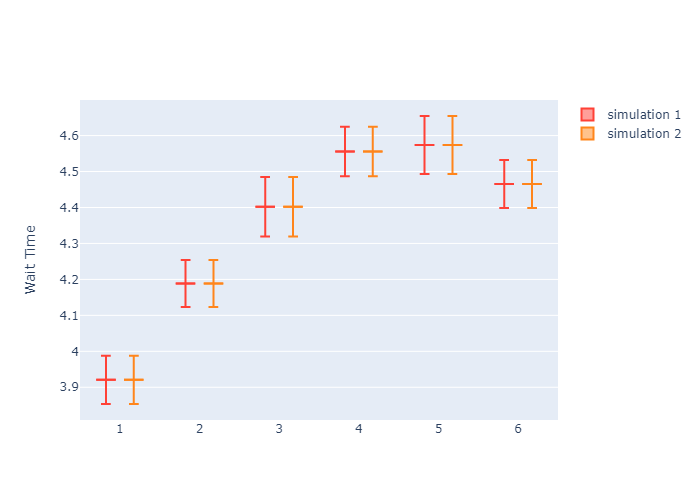
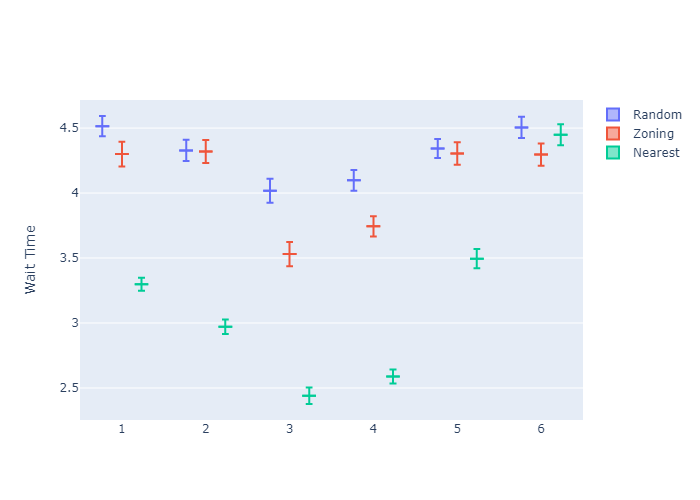
Plots for comparison

diff --git a/analysis/homogeneous/analysis.py b/analysis/homogeneous/analysis.py
@@ -197,42 +197,31 @@ def plt_graph(policy_label, data, graph_name, y_lim=(None, None)):
     img_path = "Results/{}.png".format(graph_name)
     fig.savefig(img_path)
 
-def  plt_comparison(data):
+def  plt_comparison(result, controllers):
 
-    wait_t = data.loc[:, 'steady state average'].to_list()
-    wait_t = [[v] for v in wait_t]
-    x = data.loc[:, 'floor' ].to_list()
+
     fig = go.Figure()
 
-    fig.add_trace(go.Box(y=wait_t, x=x, boxpoints=False, name = "simulation 1", marker_color='#FF4136')) # color="simulation_type"))
 
-    
-    fig.update_traces(
-                    # x = x,
-                    q1 = data.loc[:,'steady state average'].to_list(), 
-                    q3 = data.loc[:,'steady state average'].to_list(), 
-                    median = data.loc[:,'steady state average'].to_list(), 
-                    sd = [0]*6,
-                    lowerfence=data.loc[:, 'lower interval'].to_list(),
-                    upperfence=data.loc[:, 'upper interval'].to_list(), 
-                    mean=data.loc[:,'steady state average'].to_list(),
-                    # line_width = 0.1,
-                    selector = ({'name': 'simulation 1'}) )
-    
-    fig.add_trace(go.Box(y=wait_t , x =x,boxpoints=False, name = "simulation 2", marker_color='#FF851B')) # color="simulation_type"))
+    for data, controller in zip(result, controllers):
+        wait_t = data.loc[:, 'steady state average'].to_list()
+        wait_t = [[v] for v in wait_t]
+        x = data.loc[:, 'floor' ].to_list()
+        fig.add_trace(go.Box(y=wait_t, x=x, boxpoints=False, name = controller)) # color="simulation_type"))
 
-    fig.update_traces(
-                    # x = x,
-                    q1 = data.loc[:,'steady state average'].to_list(), 
-                    q3 = data.loc[:,'steady state average'].to_list(), 
-                    median = data.loc[:,'steady state average'].to_list(), 
-                    sd = [0]*6,
-                    lowerfence=data.loc[:, 'lower interval'].to_list(),
-                    upperfence=data.loc[:, 'upper interval'].to_list(), 
-                    mean=data.loc[:,'steady state average'].to_list(),
-                    # line_width = 0.1,
-                    selector = ({'name': 'simulation 2'}) )
-    
+        fig.update_traces(
+                        # x = x,
+                        q1 = data.loc[:,'steady state average'].to_list(), 
+                        q3 = data.loc[:,'steady state average'].to_list(), 
+                        median = data.loc[:,'steady state average'].to_list(), 
+                        sd = [0]*6,
+                        lowerfence=data.loc[:, 'lower interval'].to_list(),
+                        upperfence=data.loc[:, 'upper interval'].to_list(), 
+                        mean=data.loc[:,'steady state average'].to_list(),
+                        # line_width = 0.1,
+                        selector = ({'name': controller}) )
+
+        
 
     fig.update_layout(
     yaxis_title='Wait Time',
@@ -243,13 +232,18 @@ def  plt_comparison(data):
     img_path = "Results/{}.png".format('comparison_graph')
     fig.write_image(img_path)
 
-def plot(df, text = False):
+def plot(df,name, text = False):
     plt.figure(figsize=(15,8))
-    sns.scatterplot(data=df, x='wait_time', y= 'idle_time', hue="controller")
+    scatter = sns.scatterplot(data=df, x='wait_time', y= 'idle_time', hue="controller")
 
     if text:
         for i in df.index:
             plt.text(df.loc[i, 'wait_time'], df.loc[i, 'idle_time'], df.loc[i, 'idle_floor_config'])
+    
+    #save graph as image
+    fig = scatter.get_figure()
+    img_path = "Results/{}.png".format(name)
+    fig.savefig(img_path)
 
 
 

diff --git a/main_finegrained.py b/main_finegrained.py
@@ -1,0 +1,81 @@
+
+from tqdm import tqdm
+import pandas as pd
+
+from run_experiment import run_experiment, run_analysis
+import simulation.classes.groupController as gControl
+from simulation.utils import get_all_idle_combinations
+
+
+from analysis.homogeneous.analysis import print_res, convert_to_reward, calculate_expected_reward, plt_graph, overall_stat, plt_comparison
+
+if __name__ == "__main__":
+    print("RUNNING VARIOUS SIMULATIONS\n")
+
+    print("RUNNING")
+    output_file = "all_data.tsv"
+
+    # Seed for randomness
+    params = {
+            "seed": 1,
+            "num_floors": 6,
+            "num_elevators": 3,
+            "total_arrival_rate": 0.6,
+            "simulation_duration": 72000
+            }
+    
+    print("random seed:", params["seed"])
+    print("simulation duration:", params["simulation_duration"])
+    print("number of floors:", params["num_floors"])
+    print("number of elevators:", params["num_elevators"])
+
+    zoning_params = {
+            "zones": {
+                    1: [1, 2],
+                    2: [3, 4],
+                    3: [5, 6]
+                }
+            }
+
+    conditions = {
+            "Random": (gControl.RandomController, {}),
+            "Zoning": (gControl.ZoningController, zoning_params),
+            "Nearest": (gControl.NearestElevatorController, {})
+            }
+    
+    controller_params = {
+            "idle_floors": [1] * params["num_elevators"]
+            }
+    
+    all_idle_combinations = get_all_idle_combinations(params["num_floors"], params["num_elevators"])
+
+    print("idle combination:", len(all_idle_combinations))
+
+    collated_result = []
+
+    for idle_floor_combination in tqdm(all_idle_combinations):
+        for controller_name, (controller_class, controller_params) in conditions.items():
+            controller_params["idle_floors"] = idle_floor_combination
+            sim_result = run_experiment(params, controller_class, controller_params)
+    
+            result = run_analysis(params, sim_result, controller_name) 
+            result["overall_stats"] = result["overall_stats"].set_index("stat label")
+    
+            trial_result = {
+                    "controller": controller_name,
+                    "idle_floor_config": tuple(idle_floor_combination),
+                    "num_cycles": result["num_cycles"],
+                    "wait_time":result["overall_stats"].loc["avg_wait_time", "steady state average"],
+                    "wait_time_interval":result["overall_stats"].loc["avg_wait_time", "interval 1-side length"],
+                    "idle_time":result["overall_stats"].loc["avg_idle_time", "steady state average"],
+                    "idle_time_interval":result["overall_stats"].loc["avg_idle_time", "interval 1-side length"]
+                    }
+            collated_result.append(trial_result)
+
+
+    collated_df = pd.DataFrame(collated_result)
+    collated_df.to_csv(output_file, sep="\t", index=False)
+
+    # We want comparison graph for the different policies
+    # We also want to compare the different idle floor settings
+    # We will then do a comparison
